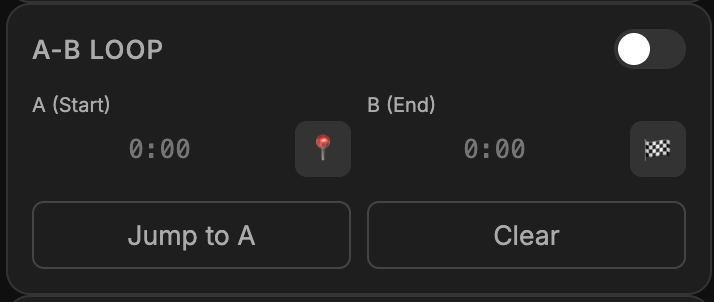
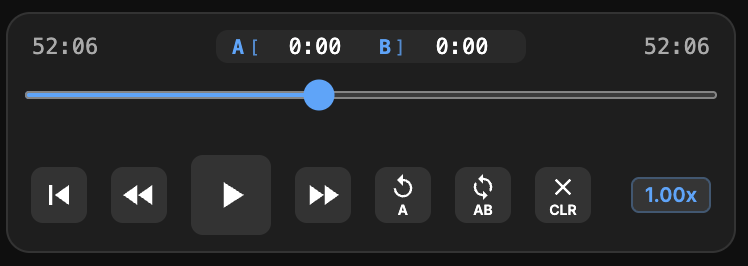
bump: version to 2.5.1 for store submission

diff --git a/sidebar.html b/sidebar.html
@@ -14,7 +14,7 @@
     <header class="compact-nav-bar">
       <div class="nav-controls">
         <div class="brand-assets">
-          <span class="version-badge">v2.5.0</span>
+          <span class="version-badge">v2.5.1</span>
           <div class="status-indicator" id="connection-status" title="Disconnected"></div>
         </div>
         <button id="nav-player" class="nav-btn active">Player</button>
@@ -296,7 +296,7 @@
       </div>
 
       <!-- Sponsorship only in Library -->
-      <div class="view-footer" style="flex-direction: column; gap: 8px;">
+      <div class="view-footer">
         <a href="https://www.buymeacoffee.com/victorhsu" target="_blank" class="bmc-btn">
           <svg viewBox="0 0 24 24" width="16" height="16" fill="currentColor">
             <path

diff --git a/STORE_SUBMISSION_INFO.md b/STORE_SUBMISSION_INFO.md
@@ -35,7 +35,7 @@ Transform YouTube into your ultimate learning station. Designed for serious lear
 **3. Smart Notes & Timestamped Bookmarks**
 - Inspiration strikes fast! Add notes with automatic timestamps without stopping the video.
 - Click any note to jump exactly to that moment in the video.
-- **Global Search**: Find that one concept you learned months ago across all your video notes.
+- **Video-Specific Focus**: Notes are context-aware and tied to specific videos for organized learning.
 
 **4. Distraction-Free Sidebar**
 - All tools live in a sleek, dark-mode sidebar that doesn't clutter the video player.

diff --git a/docs/USER_MANUAL.md b/docs/USER_MANUAL.md
@@ -37,7 +37,7 @@ After launching the Extension, you will see the main screen. The sidebar is desi
 On the right side of the top title bar is a **↗ Arrow Button**. Click to detach the window (Pop-out). 
 
 ### 🟢 Status Indicator
-Next to the **v2.6.5** badge, you will see a small circular indicator:
+Next to the **v2.5.0** badge, you will see a small circular indicator:
 - **Green**: Extension is actively connected to the YouTube video.
 - **Grey**: extension is in Standby mode (saving resources).
 

diff --git a/docs/USER_MANUAL.zh-TW.md b/docs/USER_MANUAL.zh-TW.md
@@ -37,7 +37,7 @@
 上方標題列右側有一個 **↗ 箭頭按鈕**，點擊可將視窗獨立出來（Pop-out）。
 
 ### 🟢 狀態指示燈
-在 **v2.6.5** 標記下方，您會看到一個圓形的狀態燈：
+在 **v2.5.0** 標記下方，您會看到一個圓形的狀態燈：
 - **綠色**：擴充功能已成功連接至當前 YouTube 影片。
 - **灰色**：偵測不到影片或處於「待機」狀態。
 
